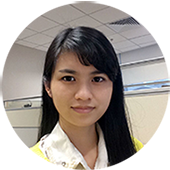
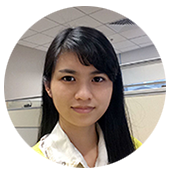
intro-header

diff --git a/css/snowblog.min.css b/css/snowblog.min.css
@@ -1,1 +1,1 @@
-@media (min-width:1200px){.post-container,.sidebar-container{padding-right:5%}}@media (min-width:768px){.post-container{padding-right:5%}}.sidebar-container{color:#bfbfbf;font-size:14px}.sidebar-container h5{color:gray;padding-bottom:1em}.sidebar-container h5 a{color:gray!important;text-decoration:none}.sidebar-container a{color:#bfbfbf!important}.sidebar-container a:hover,.sidebar-container a:active{color:#0085a1!important}.sidebar-container .tags a{border-color:#bfbfbf}.sidebar-container .tags a:hover,.sidebar-container .tags a:active{border-color:#0085a1}.sidebar-container .short-about img{width:80%;display:block;border-radius:5px;/*margin-bottom:20px*/}.sidebar-container .short-about p{margin-top:0;/*margin-bottom:20px*/}.sidebar-container .short-about .list-inline>li{padding-left:0}body{font-family:-apple-system,"Helvetica Neue",Arial,"PingFang SC","Hiragino Sans GB",STHeiti,"Microsoft YaHei","Microsoft JhengHei","Source Han Sans SC","Noto Sans CJK SC","Source Han Sans CN","Noto Sans SC","Source Han Sans TC","Noto Sans CJK TC","WenQuanYi Micro Hei",SimSun,sans-serif;line-height:1.7;font-size:16px;color:#404040;overflow-x:hidden}p{margin:30px 0}h1,h2,h3,h4,h5,h6{font-family:-apple-system,"Helvetica Neue",Arial,"PingFang SC","Hiragino Sans GB",STHeiti,"Microsoft YaHei","Microsoft JhengHei","Source Han Sans SC","Noto Sans CJK SC","Source Han Sans CN","Noto Sans SC","Source Han Sans TC","Noto Sans CJK TC","WenQuanYi Micro Hei",SimSun,sans-serif;line-height:1.7;line-height:1.1;font-weight:700}h4{font-size:21px}a{color:#404040}a:hover,a:focus{color:#0085a1}a img:hover,a img:focus{cursor:zoom-in}article{overflow-x:hidden}blockquote{color:gray;font-style:italic;font-size:.95em;margin:20px 0 20px}blockquote p{margin:0}small.img-hint{display:block;margin-top:-20px;text-align:center}br+small.img-hint{margin-top:-40px}img.shadow{box-shadow:rgba(0,0,0,.258824) 0 2px 5px 0}@media screen and (max-width:768px){select{-webkit-appearance:none;margin-top:15px;color:#337ab7;border-color:#337ab7;padding:0 .4em;background:#fff}}.table th,.table td{border:1px solid #eee!important}hr.small{max-width:100px;margin:15px auto;border-width:4px;border-color:#fff}pre,.table-responsive{-webkit-overflow-scrolling:touch}pre code{display:block;width:auto;white-space:pre;word-wrap:normal}.post-container a{color:#337ab7}.post-container a:hover,.post-container a:focus{color:#0085a1}.post-container h1,.post-container h2,.post-container h3,.post-container h4,.post-container h5,.post-container h6{margin:30px 0 10px}.post-container h5{font-size:19px;font-weight:600;color:gray}.post-container h5+p{margin-top:5px}.post-container h6{font-size:16px;font-weight:600;color:gray}.post-container h6+p{margin-top:5px}.post-container ul,.post-container ol{margin-bottom:40px}@media screen and (max-width:768px){.post-container ul,.post-container ol{padding-left:30px}}@media screen and (max-width:500px){.post-container ul,.post-container ol{padding-left:20px}}.post-container ol ol,.post-container ol ul,.post-container ul ol,.post-container ul ul{margin-bottom:5px}.post-container li p{margin:0;margin-bottom:5px}.post-container li h1,.post-container li h2,.post-container li h3,.post-container li h4,.post-container li h5,.post-container li h6{line-height:2;margin-top:20px}@media only screen and (max-width:767px){.navbar-default .navbar-collapse{position:absolute;right:0;border:none;background:#fff;box-shadow:0 5px 10px 2px rgba(0,0,0,.2);box-shadow:rgba(0,0,0,.117647) 0 1px 6px,rgba(0,0,0,.239216) 0 1px 4px;border-radius:2px;width:170px}#huxblog_navbar{opacity:0;transform:scaleX(0);transform-origin:top right;transition:all 200ms cubic-bezier(0.47,0,.4,.99) 0ms;-webkit-transform:scaleX(0);-webkit-transform-origin:top right;-webkit-transition:all 200ms cubic-bezier(0.47,0,.4,.99) 0ms}#huxblog_navbar a{font-size:13px;line-height:28px}#huxblog_navbar .navbar-collapse{height:0;transform:scaleY(0);transform-origin:top right;transition:transform 400ms cubic-bezier(0.32,1,.23,1) 0ms;-webkit-transform:scaleY(0);-webkit-transform-origin:top right;-webkit-transition:-webkit-transform 400ms cubic-bezier(0.32,1,.23,1) 0ms}#huxblog_navbar li{opacity:0;transition:opacity 100ms cubic-bezier(0.23,1,.32,1) 0ms;-webkit-transition:opacity 100ms cubic-bezier(0.23,1,.32,1) 0ms}#huxblog_navbar.in{transform:scaleX(1);-webkit-transform:scaleX(1);opacity:1;transition:all 250ms cubic-bezier(0.23,1,.32,1) 0ms;-webkit-transition:all 250ms cubic-bezier(0.23,1,.32,1) 0ms}#huxblog_navbar.in .navbar-collapse{transform:scaleY(1);-webkit-transform:scaleY(1);transition:transform 500ms cubic-bezier(0.23,1,.32,1);-webkit-transition:-webkit-transform 500ms cubic-bezier(0.23,1,.32,1)}#huxblog_navbar.in li{opacity:1;transition:opacity 450ms cubic-bezier(0.23,1,.32,1) 205ms;-webkit-transition:opacity 450ms cubic-bezier(0.23,1,.32,1) 205ms}}.navbar-custom{background:0 0;border:none;position:absolute;top:0;left:0;width:100%;z-index:3;font-family:-apple-system,"Helvetica Neue",Arial,"PingFang SC","Hiragino Sans GB",STHeiti,"Microsoft YaHei","Microsoft JhengHei","Source Han Sans SC","Noto Sans CJK SC","Source Han Sans CN","Noto Sans SC","Source Han Sans TC","Noto Sans CJK TC","WenQuanYi Micro Hei",SimSun,sans-serif;line-height:1.7}.navbar-custom .navbar-brand{font-weight:800;color:#fff;height:56px;line-height:25px}.navbar-custom .navbar-brand:hover{color:rgba(255,255,255,.8)}.navbar-custom .nav li a{text-transform:uppercase;font-size:12px;line-height:20px;font-weight:800;letter-spacing:1px}.navbar-custom .nav li a:active{background:rgba(0,0,0,.12)}@media only screen and (min-width:768px){.navbar-custom{background:0 0;border-bottom:1px solid transparent}.navbar-custom body{font-size:20px}.navbar-custom .navbar-brand{color:#fff;padding:20px;line-height:20px}.navbar-custom .navbar-brand:hover,.navbar-custom .navbar-brand:focus{color:rgba(255,255,255,.8)}.navbar-custom .nav li a{color:#fff;padding:20px}.navbar-custom .nav li a:hover,.navbar-custom .nav li a:focus{color:rgba(255,255,255,.8)}.navbar-custom .nav li a:active{background:0 0}}@media only screen and (min-width:1170px){.navbar-custom{-webkit-transition:background-color .3s;-moz-transition:background-color .3s;transition:background-color .3s;-webkit-transform:translate3d(0,0,0);-moz-transform:translate3d(0,0,0);-ms-transform:translate3d(0,0,0);-o-transform:translate3d(0,0,0);transform:translate3d(0,0,0);-webkit-backface-visibility:hidden;backface-visibility:hidden}.navbar-custom.is-fixed{position:fixed;top:-61px;background-color:rgba(255,255,255,.9);border-bottom:1px solid #f2f2f2;-webkit-transition:-webkit-transform .3s;-moz-transition:-moz-transform .3s;transition:transform .3s}.navbar-custom.is-fixed .navbar-brand{color:#404040}.navbar-custom.is-fixed .navbar-brand:hover,.navbar-custom.is-fixed .navbar-brand:focus{color:#0085a1}.navbar-custom.is-fixed .nav li a{color:#404040}.navbar-custom.is-fixed .nav li a:hover,.navbar-custom.is-fixed .nav li a:focus{color:#0085a1}.navbar-custom.is-visible{-webkit-transform:translate3d(0,100%,0);-moz-transform:translate3d(0,100%,0);-ms-transform:translate3d(0,100%,0);-o-transform:translate3d(0,100%,0);transform:translate3d(0,100%,0)}}.intro-header{background:no-repeat center center;background-color:gray;background-attachment:scroll;-webkit-background-size:cover;-moz-background-size:cover;background-size:cover;-o-background-size:cover;margin-bottom:0}@media only screen and (min-width:768px){.intro-header{/*margin-bottom:20px*/}}.intro-header .site-heading,.intro-header .post-heading,.intro-header .page-heading{padding:85px 0 55px;color:#fff}@media only screen and (min-width:768px){.intro-header .site-heading,.intro-header .post-heading,.intro-header .page-heading{padding:150px 0}}.intro-header .site-heading{padding:95px 0 70px}@media only screen and (min-width:768px){.intro-header .site-heading{padding:150px 0}}.intro-header .site-heading,.intro-header .page-heading{text-align:center}.intro-header .site-heading h1,.intro-header .page-heading h1{margin-top:0;font-size:50px}.intro-header .site-heading .subheading,.intro-header .page-heading .subheading{font-family:-apple-system,"Helvetica Neue",Arial,"PingFang SC","Hiragino Sans GB",STHeiti,"Microsoft YaHei","Microsoft JhengHei","Source Han Sans SC","Noto Sans CJK SC","Source Han Sans CN","Noto Sans SC","Source Han Sans TC","Noto Sans CJK TC","WenQuanYi Micro Hei",SimSun,sans-serif;line-height:1.7;font-size:18px;line-height:1.1;display:block;font-weight:300;margin:10px 0 0}@media only screen and (min-width:768px){.intro-header .site-heading h1,.intro-header .page-heading h1{font-size:80px}}.intro-header .post-heading h1{font-size:30px;margin-bottom:24px}.intro-header .post-heading .subheading,.intro-header .post-heading .meta{line-height:1.1;display:block}.intro-header .post-heading .subheading{font-family:-apple-system,"Helvetica Neue",Arial,"PingFang SC","Hiragino Sans GB",STHeiti,"Microsoft YaHei","Microsoft JhengHei","Source Han Sans SC","Noto Sans CJK SC","Source Han Sans CN","Noto Sans SC","Source Han Sans TC","Noto Sans CJK TC","WenQuanYi Micro Hei",SimSun,sans-serif;line-height:1.7;font-size:17px;line-height:1.4;font-weight:400;margin:10px 0 30px;margin-top:-5px}.intro-header .post-heading .meta{font-family:Lora,'Times New Roman',serif;font-style:italic;font-weight:300;font-size:18px}.intro-header .post-heading .meta a{color:#fff}@media only screen and (min-width:768px){.intro-header .post-heading h1{font-size:55px}.intro-header .post-heading .subheading{font-size:30px}.intro-header .post-heading .meta{font-size:20px}}.post-preview>a{color:#404040}.post-preview>a:hover,.post-preview>a:focus{text-decoration:none;color:#0085a1}.post-preview>a>.post-title{font-size:21px;line-height:1.3;margin-top:30px;margin-bottom:8px}.post-preview>a>.post-subtitle{font-size:15px;line-height:1.3;margin:0;font-weight:300;margin-bottom:10px}.post-preview>.post-meta{font-family:Lora,'Times New Roman',serif;color:gray;font-size:16px;font-style:italic;margin-top:0}.post-preview>.post-meta>a{text-decoration:none;color:#404040}.post-preview>.post-meta>a:hover,.post-preview>.post-meta>a:focus{color:#0085a1;text-decoration:underline}@media only screen and (min-width:768px){.post-preview>a>.post-title{font-size:26px;line-height:1.3;margin-bottom:10px}.post-preview>a>.post-subtitle{font-size:16px}.post-preview .post-meta{font-size:18px}}.post-content-preview{font-size:13px;font-style:italic;color:#a3a3a3}.post-content-preview:hover{color:#0085a1}@media only screen and (min-width:768px){.post-content-preview{font-size:14px}}.section-heading{font-size:36px;margin-top:60px;font-weight:700}.caption{text-align:center;font-size:14px;padding:10px;font-style:italic;margin:0;display:block;border-bottom-right-radius:5px;border-bottom-left-radius:5px}footer{font-size:20px;padding:50px 0 65px}footer .list-inline{margin:0;padding:0}footer .copyright{font-size:14px;text-align:center;margin-bottom:0}footer .copyright a{color:#337ab7}footer .copyright a:hover,footer .copyright a:focus{color:#0085a1}.floating-label-form-group{font-size:14px;position:relative;margin-bottom:0;padding-bottom:.5em;border-bottom:1px solid #eee}.floating-label-form-group input,.floating-label-form-group textarea{z-index:1;position:relative;padding-right:0;padding-left:0;border:none;border-radius:0;font-size:1.5em;background:0 0;box-shadow:none!important;resize:none}.floating-label-form-group label{display:block;z-index:0;position:relative;top:2em;margin:0;font-size:.85em;line-height:1.764705882em;vertical-align:middle;vertical-align:baseline;opacity:0;-webkit-transition:top .3s ease,opacity .3s ease;-moz-transition:top .3s ease,opacity .3s ease;-ms-transition:top .3s ease,opacity .3s ease;transition:top .3s ease,opacity .3s ease}.floating-label-form-group::not(:first-child){padding-left:14px;border-left:1px solid #eee}.floating-label-form-group-with-value label{top:0;opacity:1}.floating-label-form-group-with-focus label{color:#0085a1}form .row:first-child .floating-label-form-group{border-top:1px solid #eee}.btn{font-family:-apple-system,"Helvetica Neue",Arial,"PingFang SC","Hiragino Sans GB",STHeiti,"Microsoft YaHei","Microsoft JhengHei","Source Han Sans SC","Noto Sans CJK SC","Source Han Sans CN","Noto Sans SC","Source Han Sans TC","Noto Sans CJK TC","WenQuanYi Micro Hei",SimSun,sans-serif;line-height:1.7;text-transform:uppercase;font-size:14px;font-weight:800;letter-spacing:1px;border-radius:0;padding:15px 25px}.btn-lg{font-size:16px;padding:25px 35px}.btn-default:hover,.btn-default:focus{background-color:#0085a1;border:1px solid #0085a1;color:#fff}.pager{margin:20px 0 0!important;padding:0!important}.pager li>a,.pager li>span{font-family:-apple-system,"Helvetica Neue",Arial,"PingFang SC","Hiragino Sans GB",STHeiti,"Microsoft YaHei","Microsoft JhengHei","Source Han Sans SC","Noto Sans CJK SC","Source Han Sans CN","Noto Sans SC","Source Han Sans TC","Noto Sans CJK TC","WenQuanYi Micro Hei",SimSun,sans-serif;line-height:1.7;text-transform:uppercase;font-size:13px;font-weight:800;letter-spacing:1px;padding:10px;background-color:#fff;border-radius:0}@media only screen and (min-width:768px){.pager li>a,.pager li>span{font-size:14px;padding:15px 25px}}.pager li>a{color:#404040}.pager li>a:hover,.pager li>a:focus{color:#fff;background-color:#0085a1;border:1px solid #0085a1}.pager .disabled>a,.pager .disabled>a:hover,.pager .disabled>a:focus,.pager .disabled>span{color:gray;background-color:#404040;cursor:not-allowed}::-moz-selection{color:#fff;text-shadow:none;background:#0085a1}::selection{color:#fff;text-shadow:none;background:#0085a1}img::selection{color:#fff;background:0 0}img::-moz-selection{color:#fff;background:0 0}.tags{margin-bottom:-5px}.tags a,.tags .tag{display:inline-block;border:1px solid rgba(255,255,255,.8);border-radius:999em;padding:0 10px;color:#fff;line-height:24px;font-size:12px;text-decoration:none;margin:0 1px;margin-bottom:6px}.tags a:hover,.tags .tag:hover,.tags a:active,.tags .tag:active{color:#fff;border-color:#fff;background-color:rgba(255,255,255,.4);text-decoration:none}@media only screen and (min-width:768px){.tags a,.tags .tag{margin-right:5px}}#tag-heading{padding:70px 0 60px}@media only screen and (min-width:768px){#tag-heading{padding:55px 0}}#tag_cloud{margin:20px 0 15px 0}#tag_cloud a,#tag_cloud .tag{font-size:14px;border:none;line-height:28px;margin:0 2px;margin-bottom:8px;background:#D6D6D6}#tag_cloud a:hover,#tag_cloud .tag:hover,#tag_cloud a:active,#tag_cloud .tag:active{background-color:#0085a1!important}@media only screen and (min-width:768px){#tag_cloud{margin-bottom:25px}}.tag-comments{font-size:12px}@media only screen and (min-width:768px){.tag-comments{font-size:14px}}.t:first-child{margin-top:0}.listing-seperator{color:#0085a1;font-size:21px!important}.listing-seperator::before{margin-right:5px}@media only screen and (min-width:768px){.listing-seperator{font-size:20px!important;line-height:2!important}}.one-tag-list .tag-text{font-weight:200;font-family:-apple-system,"Helvetica Neue",Arial,"PingFang SC","Hiragino Sans GB",STHeiti,"Microsoft YaHei","Microsoft JhengHei","Source Han Sans SC","Noto Sans CJK SC","Source Han Sans CN","Noto Sans SC","Source Han Sans TC","Noto Sans CJK TC","WenQuanYi Micro Hei",SimSun,sans-serif;line-height:1.7}.one-tag-list .post-preview{position:relative}.one-tag-list .post-preview>a .post-title{font-size:16px;font-weight:500;margin-top:20px}.one-tag-list .post-preview>a .post-subtitle{font-size:12px}.one-tag-list .post-preview>.post-meta{position:absolute;right:5px;bottom:0;margin:0;font-size:12px;line-height:12px}@media only screen and (min-width:768px){.one-tag-list .post-preview{margin-left:20px}.one-tag-list .post-preview>a>.post-title{font-size:18px;line-height:1.3}.one-tag-list .post-preview>a>.post-subtitle{font-size:14px}.one-tag-list .post-preview .post-meta{font-size:18px}}.post-container img{display:block;max-width:100%;height:auto;margin:1.5em auto 1.6em auto}.navbar-default .navbar-toggle:focus,.navbar-default .navbar-toggle:hover{background-color:inherit}.navbar-default .navbar-toggle:active{background-color:rgba(255,255,255,.25)}.navbar-default .navbar-toggle{border-color:transparent;padding:19px 16px;margin-top:2px;margin-right:2px;margin-bottom:2px;border-radius:50%}.navbar-default .navbar-toggle .icon-bar{width:18px;border-radius:0;background-color:#fff}.navbar-default .navbar-toggle .icon-bar+.icon-bar{margin-top:3px}.comment{margin-top:20px}.comment #ds-thread #ds-reset a.ds-like-thread-button{border:1px solid #ddd;border-radius:0;background:#fff;box-shadow:none;text-shadow:none}.comment #ds-thread #ds-reset li.ds-tab a.ds-current{border:1px solid #ddd;border-radius:0;background:#fff;box-shadow:none;text-shadow:none}.comment #ds-thread #ds-reset .ds-textarea-wrapper{background:0 0}.comment #ds-thread #ds-reset .ds-gradient-bg{background:0 0}.comment #ds-thread #ds-reset .ds-post-options{border-bottom:1px solid #ccc}.comment #ds-thread #ds-reset .ds-post-button{border-bottom:1px solid #ccc}#ds-smilies-tooltip ul.ds-smilies-tabs li a{background:#fff!important}.page-fullscreen .intro-header{position:fixed;left:0;top:0;width:100%;height:100%}.page-fullscreen #tag-heading{position:fixed;left:0;top:0;padding-bottom:150px;width:100%;height:100%;display:-webkit-box;-webkit-box-orient:vertical;-webkit-box-pack:center;-webkit-box-align:center;display:-webkit-flex;-webkit-align-items:center;-webkit-justify-content:center;-webkit-flex-direction:column;display:flex;align-items:center;justify-content:center;flex-direction:column}.page-fullscreen footer{position:absolute;width:100%;bottom:0;padding-bottom:20px;opacity:.6;color:#fff}.page-fullscreen footer .copyright{color:#fff}.page-fullscreen footer .copyright a{color:#fff}.page-fullscreen footer .copyright a:hover{color:#ddd}
+@media (min-width:1200px){.post-container,.sidebar-container{padding-right:5%}}@media (min-width:768px){.post-container{padding-right:5%}}.sidebar-container{color:#bfbfbf;font-size:14px}.sidebar-container h5{color:gray;padding-bottom:1em}.sidebar-container h5 a{color:gray!important;text-decoration:none}.sidebar-container a{color:#bfbfbf!important}.sidebar-container a:hover,.sidebar-container a:active{color:#0085a1!important}.sidebar-container .tags a{border-color:#bfbfbf}.sidebar-container .tags a:hover,.sidebar-container .tags a:active{border-color:#0085a1}.sidebar-container .short-about img{width:80%;display:block;border-radius:5px;/*margin-bottom:20px*/}.sidebar-container .short-about p{margin-top:0;/*margin-bottom:20px*/}.sidebar-container .short-about .list-inline>li{padding-left:0}body{font-family:-apple-system,"Helvetica Neue",Arial,"PingFang SC","Hiragino Sans GB",STHeiti,"Microsoft YaHei","Microsoft JhengHei","Source Han Sans SC","Noto Sans CJK SC","Source Han Sans CN","Noto Sans SC","Source Han Sans TC","Noto Sans CJK TC","WenQuanYi Micro Hei",SimSun,sans-serif;line-height:1.7;font-size:16px;color:#404040;overflow-x:hidden}p{margin:30px 0}h1,h2,h3,h4,h5,h6{font-family:-apple-system,"Helvetica Neue",Arial,"PingFang SC","Hiragino Sans GB",STHeiti,"Microsoft YaHei","Microsoft JhengHei","Source Han Sans SC","Noto Sans CJK SC","Source Han Sans CN","Noto Sans SC","Source Han Sans TC","Noto Sans CJK TC","WenQuanYi Micro Hei",SimSun,sans-serif;line-height:1.7;line-height:1.1;font-weight:700}h4{font-size:21px}a{color:#404040}a:hover,a:focus{color:#0085a1}a img:hover,a img:focus{cursor:zoom-in}article{overflow-x:hidden}blockquote{color:gray;font-style:italic;font-size:.95em;margin:20px 0 20px}blockquote p{margin:0}small.img-hint{display:block;margin-top:-20px;text-align:center}br+small.img-hint{margin-top:-40px}img.shadow{box-shadow:rgba(0,0,0,.258824) 0 2px 5px 0}@media screen and (max-width:768px){select{-webkit-appearance:none;margin-top:15px;color:#337ab7;border-color:#337ab7;padding:0 .4em;background:#fff}}.table th,.table td{border:1px solid #eee!important}hr.small{max-width:100px;margin:15px auto;border-width:4px;border-color:#fff}pre,.table-responsive{-webkit-overflow-scrolling:touch}pre code{display:block;width:auto;white-space:pre;word-wrap:normal}.post-container a{color:#337ab7}.post-container a:hover,.post-container a:focus{color:#0085a1}.post-container h1,.post-container h2,.post-container h3,.post-container h4,.post-container h5,.post-container h6{margin:30px 0 10px}.post-container h5{font-size:19px;font-weight:600;color:gray}.post-container h5+p{margin-top:5px}.post-container h6{font-size:16px;font-weight:600;color:gray}.post-container h6+p{margin-top:5px}.post-container ul,.post-container ol{margin-bottom:40px}@media screen and (max-width:768px){.post-container ul,.post-container ol{padding-left:30px}}@media screen and (max-width:500px){.post-container ul,.post-container ol{padding-left:20px}}.post-container ol ol,.post-container ol ul,.post-container ul ol,.post-container ul ul{margin-bottom:5px}.post-container li p{margin:0;margin-bottom:5px}.post-container li h1,.post-container li h2,.post-container li h3,.post-container li h4,.post-container li h5,.post-container li h6{line-height:2;margin-top:20px}@media only screen and (max-width:767px){.navbar-default .navbar-collapse{position:absolute;right:0;border:none;background:#fff;box-shadow:0 5px 10px 2px rgba(0,0,0,.2);box-shadow:rgba(0,0,0,.117647) 0 1px 6px,rgba(0,0,0,.239216) 0 1px 4px;border-radius:2px;width:170px}#huxblog_navbar{opacity:0;transform:scaleX(0);transform-origin:top right;transition:all 200ms cubic-bezier(0.47,0,.4,.99) 0ms;-webkit-transform:scaleX(0);-webkit-transform-origin:top right;-webkit-transition:all 200ms cubic-bezier(0.47,0,.4,.99) 0ms}#huxblog_navbar a{font-size:13px;line-height:28px}#huxblog_navbar .navbar-collapse{height:0;transform:scaleY(0);transform-origin:top right;transition:transform 400ms cubic-bezier(0.32,1,.23,1) 0ms;-webkit-transform:scaleY(0);-webkit-transform-origin:top right;-webkit-transition:-webkit-transform 400ms cubic-bezier(0.32,1,.23,1) 0ms}#huxblog_navbar li{opacity:0;transition:opacity 100ms cubic-bezier(0.23,1,.32,1) 0ms;-webkit-transition:opacity 100ms cubic-bezier(0.23,1,.32,1) 0ms}#huxblog_navbar.in{transform:scaleX(1);-webkit-transform:scaleX(1);opacity:1;transition:all 250ms cubic-bezier(0.23,1,.32,1) 0ms;-webkit-transition:all 250ms cubic-bezier(0.23,1,.32,1) 0ms}#huxblog_navbar.in .navbar-collapse{transform:scaleY(1);-webkit-transform:scaleY(1);transition:transform 500ms cubic-bezier(0.23,1,.32,1);-webkit-transition:-webkit-transform 500ms cubic-bezier(0.23,1,.32,1)}#huxblog_navbar.in li{opacity:1;transition:opacity 450ms cubic-bezier(0.23,1,.32,1) 205ms;-webkit-transition:opacity 450ms cubic-bezier(0.23,1,.32,1) 205ms}}.navbar-custom{background:0 0;border:none;position:absolute;top:0;left:0;width:100%;z-index:3;font-family:-apple-system,"Helvetica Neue",Arial,"PingFang SC","Hiragino Sans GB",STHeiti,"Microsoft YaHei","Microsoft JhengHei","Source Han Sans SC","Noto Sans CJK SC","Source Han Sans CN","Noto Sans SC","Source Han Sans TC","Noto Sans CJK TC","WenQuanYi Micro Hei",SimSun,sans-serif;line-height:1.7}.navbar-custom .navbar-brand{font-weight:800;color:#fff;height:56px;line-height:25px}.navbar-custom .navbar-brand:hover{color:rgba(255,255,255,.8)}.navbar-custom .nav li a{text-transform:uppercase;font-size:12px;line-height:20px;font-weight:800;letter-spacing:1px}.navbar-custom .nav li a:active{background:rgba(0,0,0,.12)}@media only screen and (min-width:768px){.navbar-custom{background:0 0;border-bottom:1px solid transparent}.navbar-custom body{font-size:20px}.navbar-custom .navbar-brand{color:#fff;padding:20px;line-height:20px}.navbar-custom .navbar-brand:hover,.navbar-custom .navbar-brand:focus{color:rgba(255,255,255,.8)}.navbar-custom .nav li a{color:#fff;padding:20px}.navbar-custom .nav li a:hover,.navbar-custom .nav li a:focus{color:rgba(255,255,255,.8)}.navbar-custom .nav li a:active{background:0 0}}@media only screen and (min-width:1170px){.navbar-custom{-webkit-transition:background-color .3s;-moz-transition:background-color .3s;transition:background-color .3s;-webkit-transform:translate3d(0,0,0);-moz-transform:translate3d(0,0,0);-ms-transform:translate3d(0,0,0);-o-transform:translate3d(0,0,0);transform:translate3d(0,0,0);-webkit-backface-visibility:hidden;backface-visibility:hidden}.navbar-custom.is-fixed{position:fixed;top:-61px;background-color:rgba(255,255,255,.9);border-bottom:1px solid #f2f2f2;-webkit-transition:-webkit-transform .3s;-moz-transition:-moz-transform .3s;transition:transform .3s}.navbar-custom.is-fixed .navbar-brand{color:#404040}.navbar-custom.is-fixed .navbar-brand:hover,.navbar-custom.is-fixed .navbar-brand:focus{color:#0085a1}.navbar-custom.is-fixed .nav li a{color:#404040}.navbar-custom.is-fixed .nav li a:hover,.navbar-custom.is-fixed .nav li a:focus{color:#0085a1}.navbar-custom.is-visible{-webkit-transform:translate3d(0,100%,0);-moz-transform:translate3d(0,100%,0);-ms-transform:translate3d(0,100%,0);-o-transform:translate3d(0,100%,0);transform:translate3d(0,100%,0)}}.intro-header{background:no-repeat center center;background-color:gray;background-attachment:scroll;-webkit-background-size:cover;-moz-background-size:cover;background-size:cover;-o-background-size:cover;margin-bottom:0}@media only screen and (min-width:768px){.intro-header{/*margin-bottom:20px*/}}.intro-header .site-heading,.intro-header .post-heading,.intro-header .page-heading{padding:85px 0 55px;color:#fff}@media only screen and (min-width:768px){.intro-header .site-heading,.intro-header .post-heading,.intro-header .page-heading{padding:120px 0}}.intro-header .site-heading{padding:95px 0 70px}@media only screen and (min-width:768px){.intro-header .site-heading{padding:150px 0}}.intro-header .site-heading,.intro-header .page-heading{text-align:center}.intro-header .site-heading h1,.intro-header .page-heading h1{margin-top:0;font-size:50px}.intro-header .site-heading .subheading,.intro-header .page-heading .subheading{font-family:-apple-system,"Helvetica Neue",Arial,"PingFang SC","Hiragino Sans GB",STHeiti,"Microsoft YaHei","Microsoft JhengHei","Source Han Sans SC","Noto Sans CJK SC","Source Han Sans CN","Noto Sans SC","Source Han Sans TC","Noto Sans CJK TC","WenQuanYi Micro Hei",SimSun,sans-serif;line-height:1.7;font-size:18px;line-height:1.1;display:block;font-weight:300;margin:10px 0 0}@media only screen and (min-width:768px){.intro-header .site-heading h1,.intro-header .page-heading h1{font-size:80px}}.intro-header .post-heading h1{font-size:30px;margin-bottom:24px}.intro-header .post-heading .subheading,.intro-header .post-heading .meta{line-height:1.1;display:block}.intro-header .post-heading .subheading{font-family:-apple-system,"Helvetica Neue",Arial,"PingFang SC","Hiragino Sans GB",STHeiti,"Microsoft YaHei","Microsoft JhengHei","Source Han Sans SC","Noto Sans CJK SC","Source Han Sans CN","Noto Sans SC","Source Han Sans TC","Noto Sans CJK TC","WenQuanYi Micro Hei",SimSun,sans-serif;line-height:1.7;font-size:17px;line-height:1.4;font-weight:400;margin:10px 0 30px;margin-top:-5px}.intro-header .post-heading .meta{font-family:Lora,'Times New Roman',serif;font-style:italic;font-weight:300;font-size:18px}.intro-header .post-heading .meta a{color:#fff}@media only screen and (min-width:768px){.intro-header .post-heading h1{font-size:55px}.intro-header .post-heading .subheading{font-size:30px}.intro-header .post-heading .meta{font-size:20px}}.post-preview>a{color:#404040}.post-preview>a:hover,.post-preview>a:focus{text-decoration:none;color:#0085a1}.post-preview>a>.post-title{font-size:21px;line-height:1.3;margin-top:30px;margin-bottom:8px}.post-preview>a>.post-subtitle{font-size:15px;line-height:1.3;margin:0;font-weight:300;margin-bottom:10px}.post-preview>.post-meta{font-family:Lora,'Times New Roman',serif;color:gray;font-size:16px;font-style:italic;margin-top:0}.post-preview>.post-meta>a{text-decoration:none;color:#404040}.post-preview>.post-meta>a:hover,.post-preview>.post-meta>a:focus{color:#0085a1;text-decoration:underline}@media only screen and (min-width:768px){.post-preview>a>.post-title{font-size:26px;line-height:1.3;margin-bottom:10px}.post-preview>a>.post-subtitle{font-size:16px}.post-preview .post-meta{font-size:18px}}.post-content-preview{font-size:13px;font-style:italic;color:#a3a3a3}.post-content-preview:hover{color:#0085a1}@media only screen and (min-width:768px){.post-content-preview{font-size:14px}}.section-heading{font-size:36px;margin-top:60px;font-weight:700}.caption{text-align:center;font-size:14px;padding:10px;font-style:italic;margin:0;display:block;border-bottom-right-radius:5px;border-bottom-left-radius:5px}footer{font-size:20px;padding:50px 0 65px}footer .list-inline{margin:0;padding:0}footer .copyright{font-size:14px;text-align:center;margin-bottom:0}footer .copyright a{color:#337ab7}footer .copyright a:hover,footer .copyright a:focus{color:#0085a1}.floating-label-form-group{font-size:14px;position:relative;margin-bottom:0;padding-bottom:.5em;border-bottom:1px solid #eee}.floating-label-form-group input,.floating-label-form-group textarea{z-index:1;position:relative;padding-right:0;padding-left:0;border:none;border-radius:0;font-size:1.5em;background:0 0;box-shadow:none!important;resize:none}.floating-label-form-group label{display:block;z-index:0;position:relative;top:2em;margin:0;font-size:.85em;line-height:1.764705882em;vertical-align:middle;vertical-align:baseline;opacity:0;-webkit-transition:top .3s ease,opacity .3s ease;-moz-transition:top .3s ease,opacity .3s ease;-ms-transition:top .3s ease,opacity .3s ease;transition:top .3s ease,opacity .3s ease}.floating-label-form-group::not(:first-child){padding-left:14px;border-left:1px solid #eee}.floating-label-form-group-with-value label{top:0;opacity:1}.floating-label-form-group-with-focus label{color:#0085a1}form .row:first-child .floating-label-form-group{border-top:1px solid #eee}.btn{font-family:-apple-system,"Helvetica Neue",Arial,"PingFang SC","Hiragino Sans GB",STHeiti,"Microsoft YaHei","Microsoft JhengHei","Source Han Sans SC","Noto Sans CJK SC","Source Han Sans CN","Noto Sans SC","Source Han Sans TC","Noto Sans CJK TC","WenQuanYi Micro Hei",SimSun,sans-serif;line-height:1.7;text-transform:uppercase;font-size:14px;font-weight:800;letter-spacing:1px;border-radius:0;padding:15px 25px}.btn-lg{font-size:16px;padding:25px 35px}.btn-default:hover,.btn-default:focus{background-color:#0085a1;border:1px solid #0085a1;color:#fff}.pager{margin:20px 0 0!important;padding:0!important}.pager li>a,.pager li>span{font-family:-apple-system,"Helvetica Neue",Arial,"PingFang SC","Hiragino Sans GB",STHeiti,"Microsoft YaHei","Microsoft JhengHei","Source Han Sans SC","Noto Sans CJK SC","Source Han Sans CN","Noto Sans SC","Source Han Sans TC","Noto Sans CJK TC","WenQuanYi Micro Hei",SimSun,sans-serif;line-height:1.7;text-transform:uppercase;font-size:13px;font-weight:800;letter-spacing:1px;padding:10px;background-color:#fff;border-radius:0}@media only screen and (min-width:768px){.pager li>a,.pager li>span{font-size:14px;padding:15px 25px}}.pager li>a{color:#404040}.pager li>a:hover,.pager li>a:focus{color:#fff;background-color:#0085a1;border:1px solid #0085a1}.pager .disabled>a,.pager .disabled>a:hover,.pager .disabled>a:focus,.pager .disabled>span{color:gray;background-color:#404040;cursor:not-allowed}::-moz-selection{color:#fff;text-shadow:none;background:#0085a1}::selection{color:#fff;text-shadow:none;background:#0085a1}img::selection{color:#fff;background:0 0}img::-moz-selection{color:#fff;background:0 0}.tags{margin-bottom:-5px}.tags a,.tags .tag{display:inline-block;border:1px solid rgba(255,255,255,.8);border-radius:999em;padding:0 10px;color:#fff;line-height:24px;font-size:12px;text-decoration:none;margin:0 1px;margin-bottom:6px}.tags a:hover,.tags .tag:hover,.tags a:active,.tags .tag:active{color:#fff;border-color:#fff;background-color:rgba(255,255,255,.4);text-decoration:none}@media only screen and (min-width:768px){.tags a,.tags .tag{margin-right:5px}}#tag-heading{padding:70px 0 60px}@media only screen and (min-width:768px){#tag-heading{padding:55px 0}}#tag_cloud{margin:20px 0 15px 0}#tag_cloud a,#tag_cloud .tag{font-size:14px;border:none;line-height:28px;margin:0 2px;margin-bottom:8px;background:#D6D6D6}#tag_cloud a:hover,#tag_cloud .tag:hover,#tag_cloud a:active,#tag_cloud .tag:active{background-color:#0085a1!important}@media only screen and (min-width:768px){#tag_cloud{margin-bottom:25px}}.tag-comments{font-size:12px}@media only screen and (min-width:768px){.tag-comments{font-size:14px}}.t:first-child{margin-top:0}.listing-seperator{color:#0085a1;font-size:21px!important}.listing-seperator::before{margin-right:5px}@media only screen and (min-width:768px){.listing-seperator{font-size:20px!important;line-height:2!important}}.one-tag-list .tag-text{font-weight:200;font-family:-apple-system,"Helvetica Neue",Arial,"PingFang SC","Hiragino Sans GB",STHeiti,"Microsoft YaHei","Microsoft JhengHei","Source Han Sans SC","Noto Sans CJK SC","Source Han Sans CN","Noto Sans SC","Source Han Sans TC","Noto Sans CJK TC","WenQuanYi Micro Hei",SimSun,sans-serif;line-height:1.7}.one-tag-list .post-preview{position:relative}.one-tag-list .post-preview>a .post-title{font-size:16px;font-weight:500;margin-top:20px}.one-tag-list .post-preview>a .post-subtitle{font-size:12px}.one-tag-list .post-preview>.post-meta{position:absolute;right:5px;bottom:0;margin:0;font-size:12px;line-height:12px}@media only screen and (min-width:768px){.one-tag-list .post-preview{margin-left:20px}.one-tag-list .post-preview>a>.post-title{font-size:18px;line-height:1.3}.one-tag-list .post-preview>a>.post-subtitle{font-size:14px}.one-tag-list .post-preview .post-meta{font-size:18px}}.post-container img{display:block;max-width:100%;height:auto;margin:1.5em auto 1.6em auto}.navbar-default .navbar-toggle:focus,.navbar-default .navbar-toggle:hover{background-color:inherit}.navbar-default .navbar-toggle:active{background-color:rgba(255,255,255,.25)}.navbar-default .navbar-toggle{border-color:transparent;padding:19px 16px;margin-top:2px;margin-right:2px;margin-bottom:2px;border-radius:50%}.navbar-default .navbar-toggle .icon-bar{width:18px;border-radius:0;background-color:#fff}.navbar-default .navbar-toggle .icon-bar+.icon-bar{margin-top:3px}.comment{margin-top:20px}.comment #ds-thread #ds-reset a.ds-like-thread-button{border:1px solid #ddd;border-radius:0;background:#fff;box-shadow:none;text-shadow:none}.comment #ds-thread #ds-reset li.ds-tab a.ds-current{border:1px solid #ddd;border-radius:0;background:#fff;box-shadow:none;text-shadow:none}.comment #ds-thread #ds-reset .ds-textarea-wrapper{background:0 0}.comment #ds-thread #ds-reset .ds-gradient-bg{background:0 0}.comment #ds-thread #ds-reset .ds-post-options{border-bottom:1px solid #ccc}.comment #ds-thread #ds-reset .ds-post-button{border-bottom:1px solid #ccc}#ds-smilies-tooltip ul.ds-smilies-tabs li a{background:#fff!important}.page-fullscreen .intro-header{position:fixed;left:0;top:0;width:100%;height:100%}.page-fullscreen #tag-heading{position:fixed;left:0;top:0;padding-bottom:150px;width:100%;height:100%;display:-webkit-box;-webkit-box-orient:vertical;-webkit-box-pack:center;-webkit-box-align:center;display:-webkit-flex;-webkit-align-items:center;-webkit-justify-content:center;-webkit-flex-direction:column;display:flex;align-items:center;justify-content:center;flex-direction:column}.page-fullscreen footer{position:absolute;width:100%;bottom:0;padding-bottom:20px;opacity:.6;color:#fff}.page-fullscreen footer .copyright{color:#fff}.page-fullscreen footer .copyright a{color:#fff}.page-fullscreen footer .copyright a:hover{color:#ddd}

diff --git a/css/snowblog.css b/css/snowblog.css
@@ -1147,8 +1147,8 @@ div.github:hover
   }
   .me-img
   {
-    width:180px;
-    height:180px;
+    max-width:160px;
+    max-height:160px;
   }
   
   .left-bar
